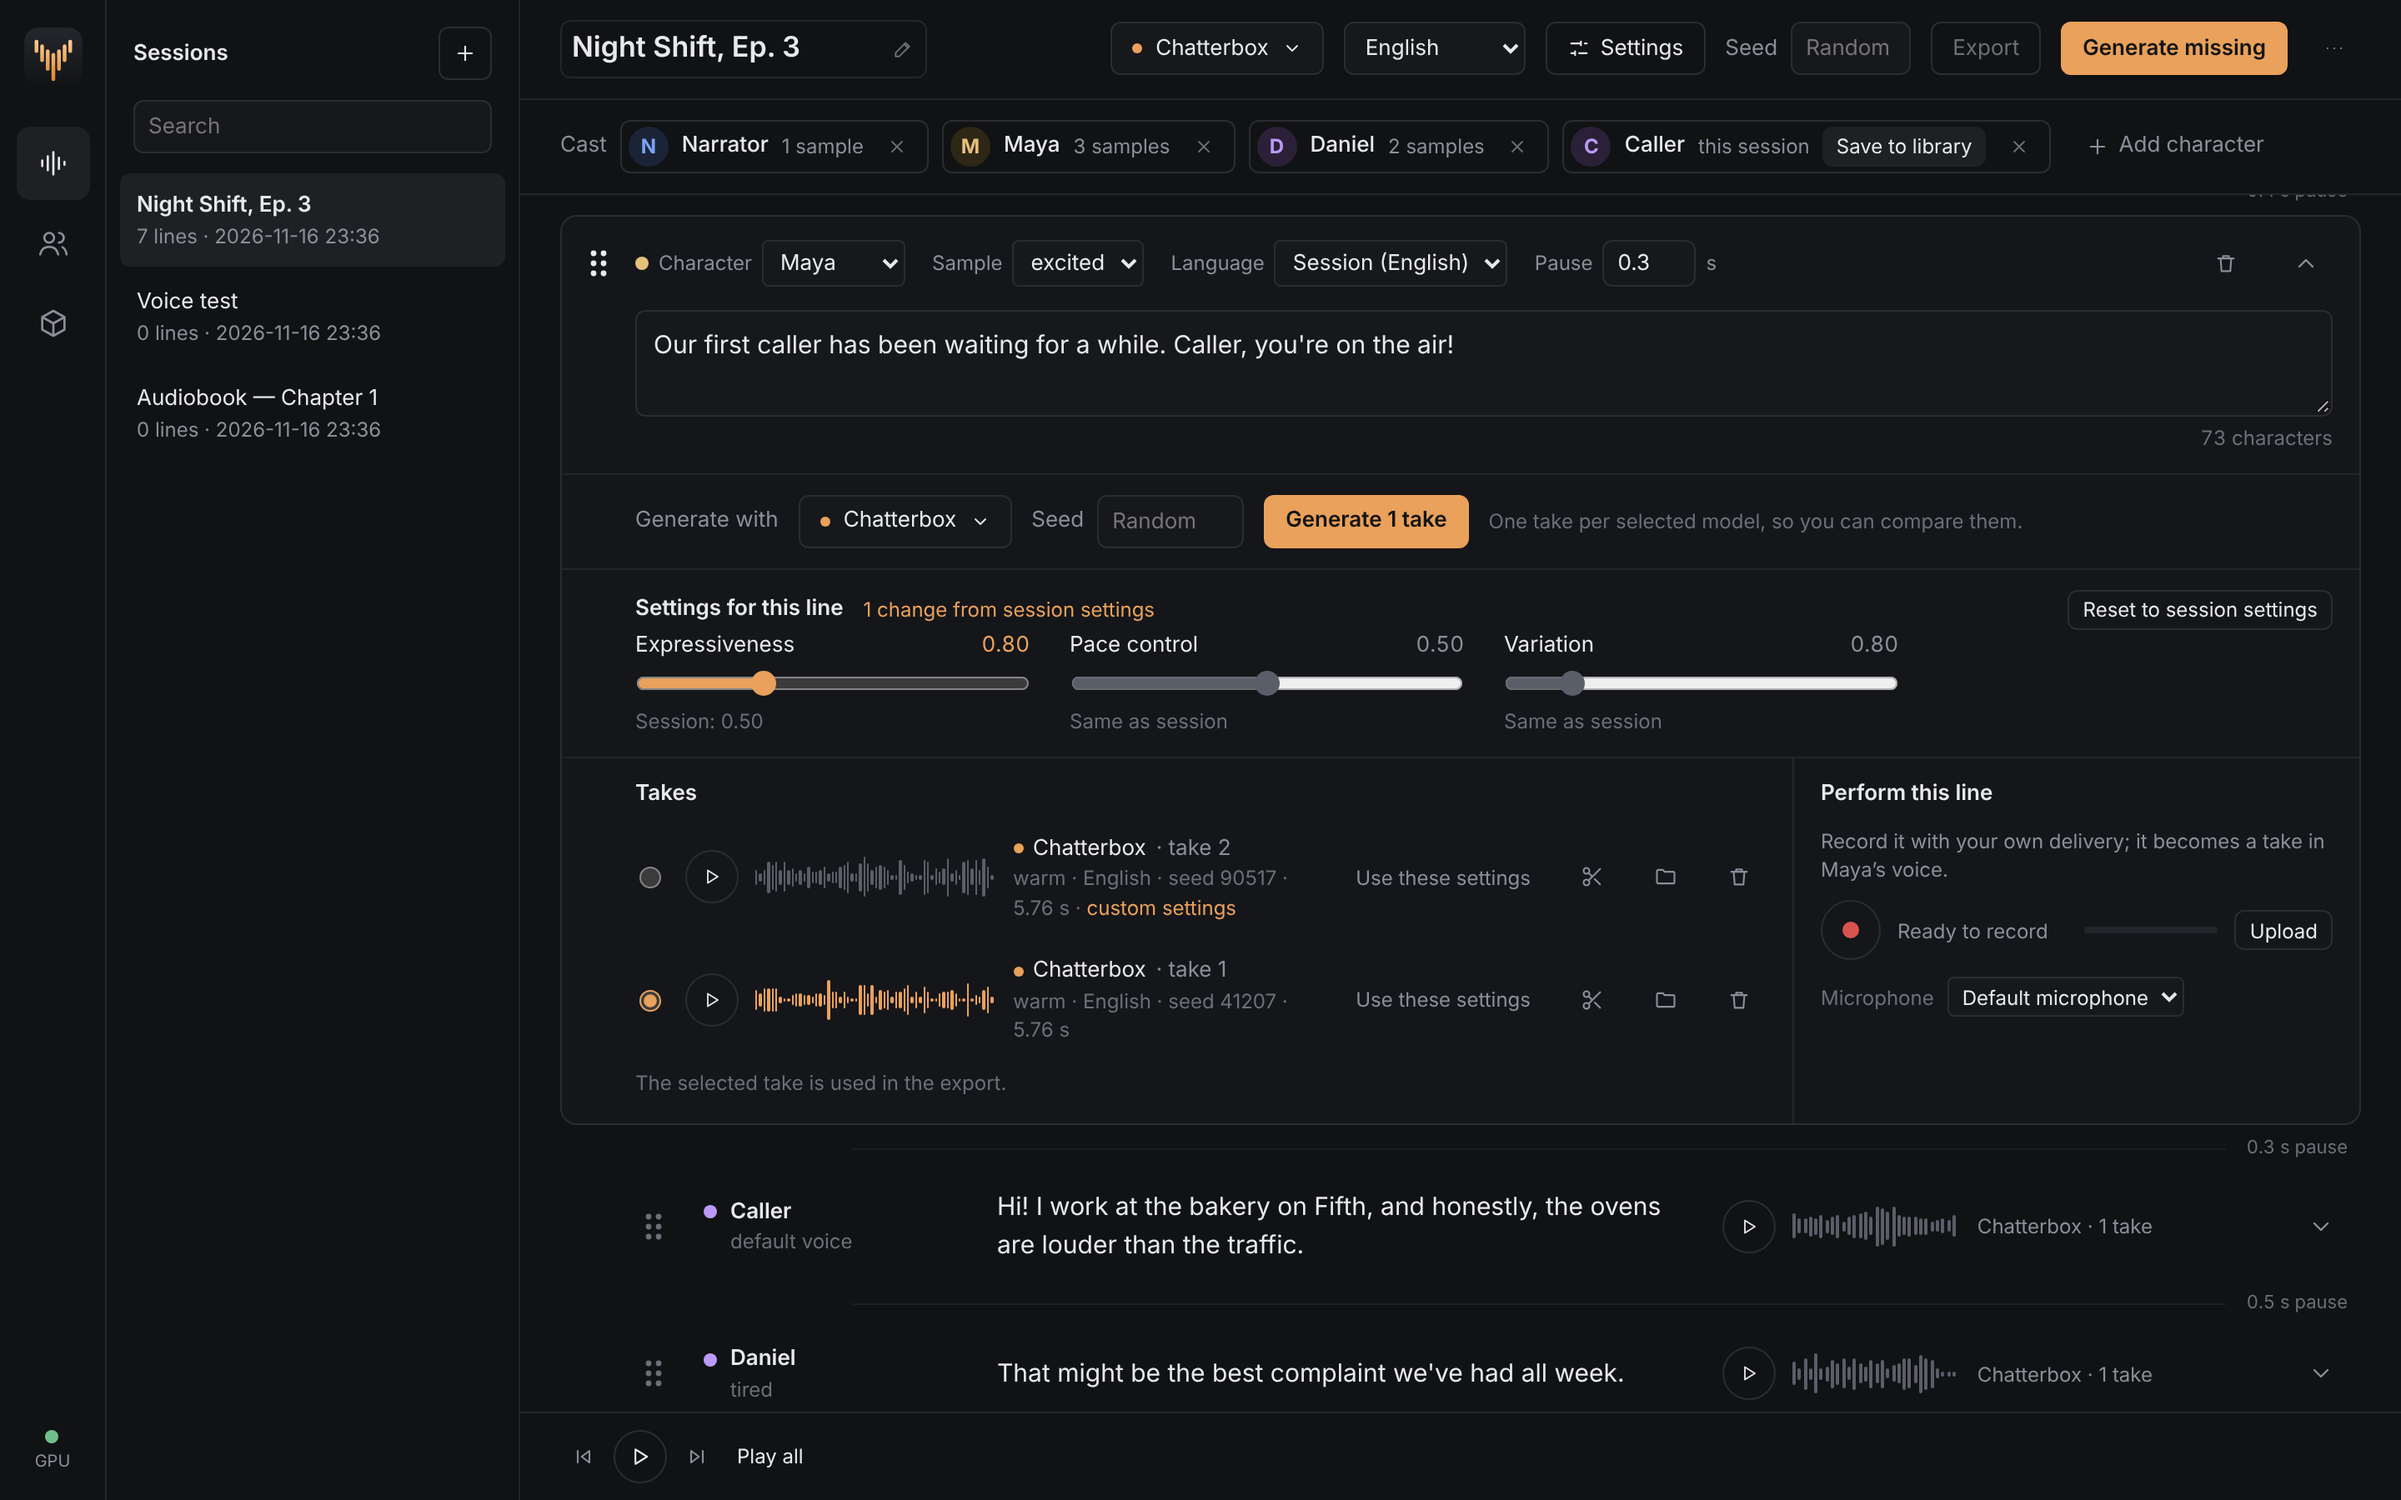
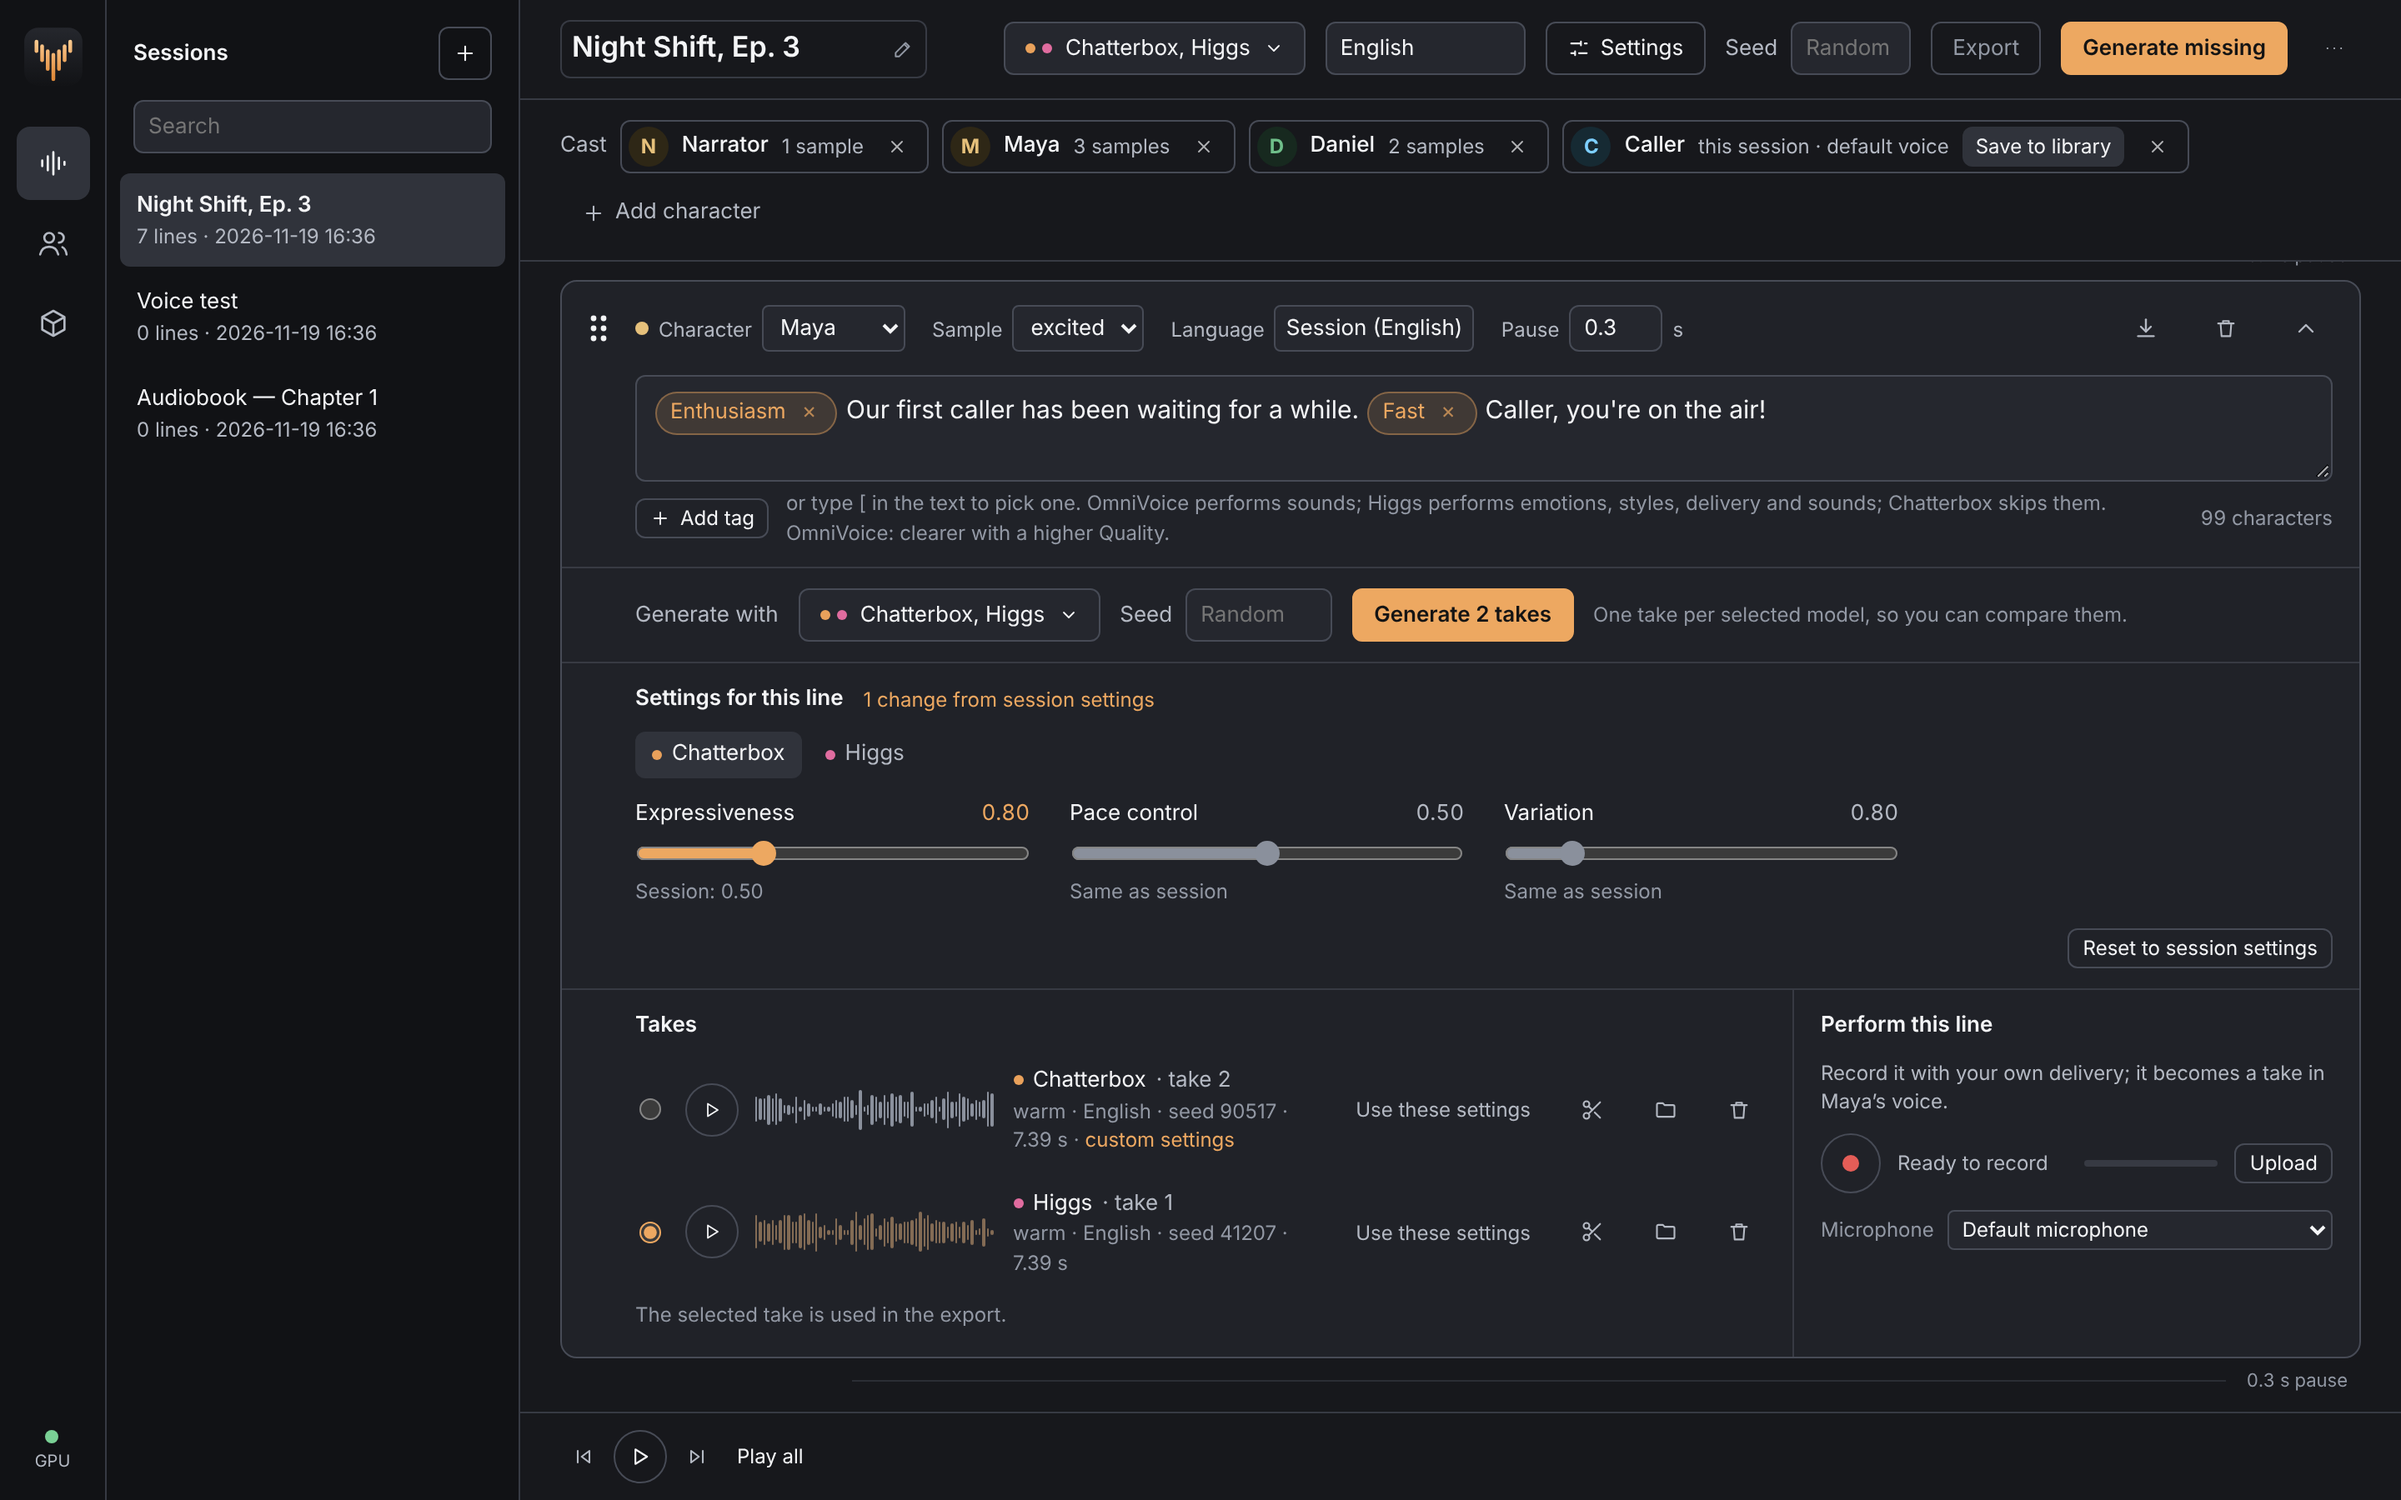
docs: new screenshots with tags, Higgs, voice design and the Models runtime line

diff --git a/README.md b/README.md
@@ -49,18 +49,20 @@ English script. Unmute the player to listen.
 
 ## Screenshots
 
-**Line details** — text, sample, language and pause; generate with one or more models; per-line settings; takes
-to compare, trim and pick; and *Perform this line* to convert your own recording.
+**Line details** — text with emotion and delivery tags, sample, language and pause; generate with one or more
+models; per-line settings; takes to compare, trim and pick; and *Perform this line* to convert your own recording.
 
 ![Line details with takes, line settings and Perform this line](docs/images/line-details.png)
 
-**Characters** — reusable voices with several labelled samples, each tagged with its language.
+**Characters** — reusable voices with several labelled samples, each tagged with its language. Here a voice is
+designed from a description: three candidates to listen to and keep.
 
-![Characters with samples](docs/images/characters.png)
+![Characters with designed samples and the Design a voice panel](docs/images/characters.png)
 
-**Models** — install and remove models; size, GPU memory and license are shown first.
+**Models** — install and remove models; size, GPU memory and license are shown first, and a loaded model shows
+its GPU memory and how it loaded.
 
-![Models](docs/images/models.png)
+![Models, with Higgs TTS 3 loaded in full precision](docs/images/models.png)
 
 <sub>Screenshots use made-up demo data; no real voices were used.</sub>
 
